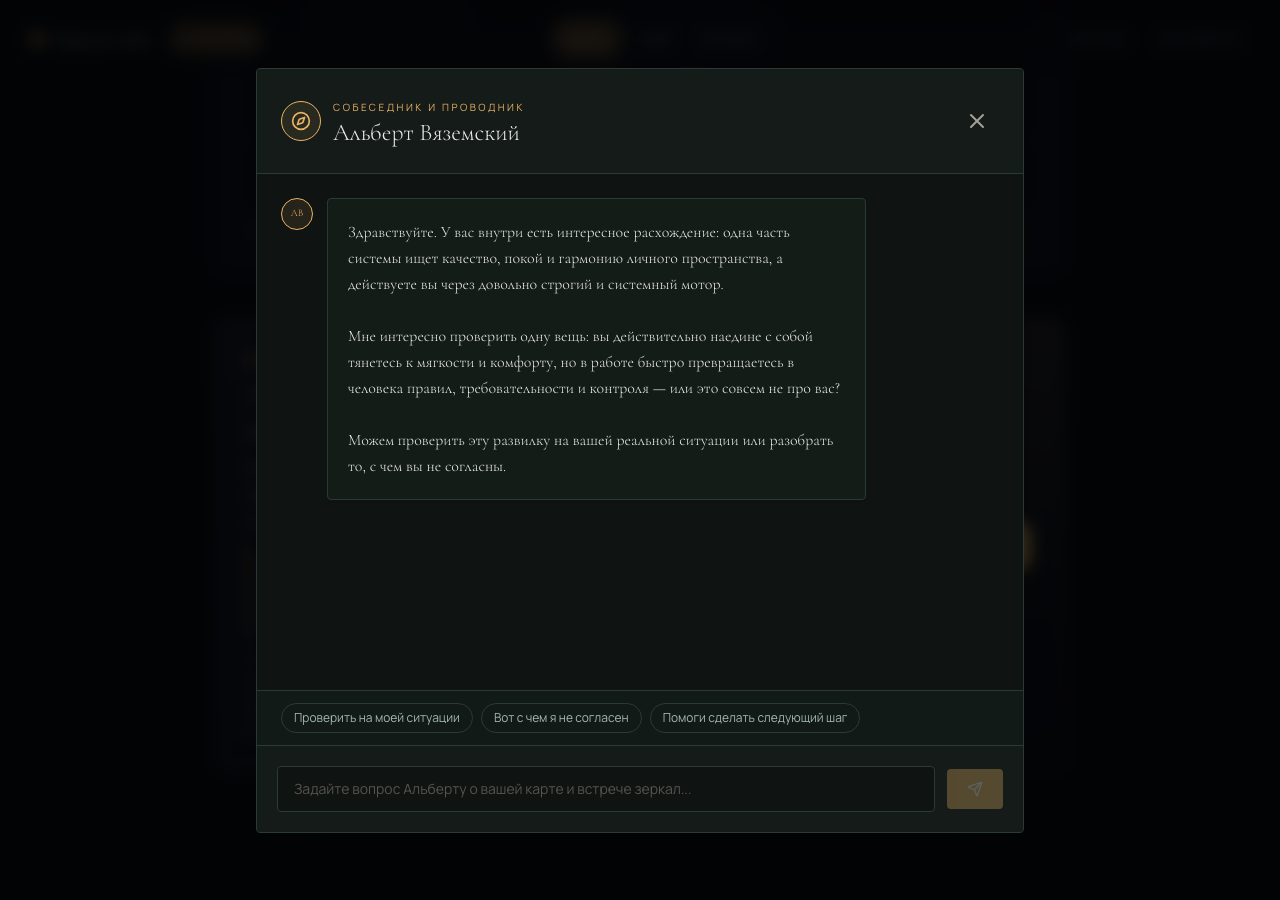
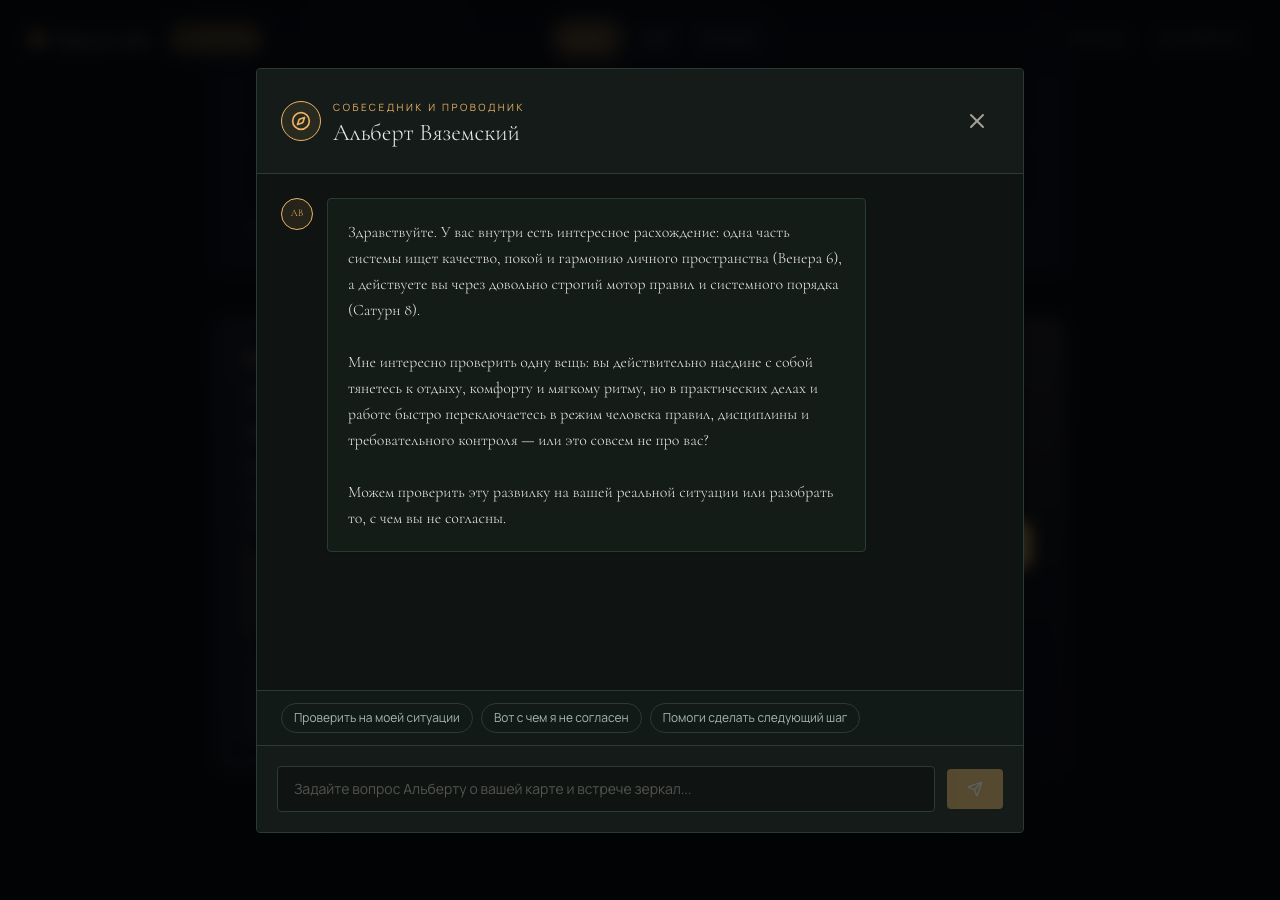
feat(v2): capture clean preview, owner and out-of-sample visual evidence

Changed region(s): [[0.2812, 0.28, 0.6562, 0.5911]]

diff --git a/src/components/CodeV2/CodeV2Experience.tsx b/src/components/CodeV2/CodeV2Experience.tsx
@@ -97,12 +97,18 @@ export function CodeV2Experience({
   // Auto-calculate on initial load only if date is explicitly provided
   useEffect(() => {
     if (!initialDate) return;
-    const d = day.padStart(2, '0');
-    const m = month.padStart(2, '0');
-    const y = year;
-    const validation = validateBirthDate(d, m, y);
-    if (validation.valid) {
-      fetchV2Calculation(validation.formatted);
+    const parts = initialDate.split('.');
+    if (parts.length === 3) {
+      const d = parts[0].trim().padStart(2, '0');
+      const m = parts[1].trim().padStart(2, '0');
+      const y = parts[2].trim();
+      setDay(d);
+      setMonth(m);
+      setYear(y);
+      const validation = validateBirthDate(d, m, y);
+      if (validation.valid) {
+        fetchV2Calculation(validation.formatted);
+      }
     }
   }, [initialDate]);
 
